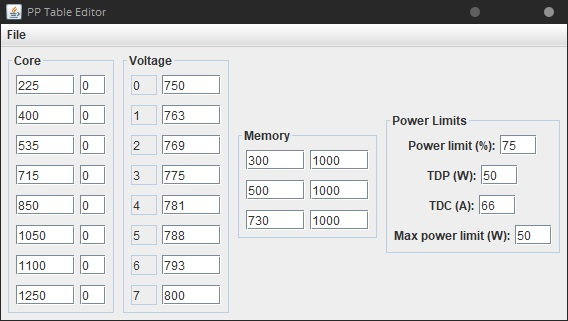
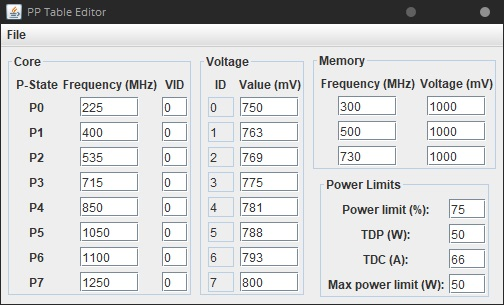
Added labels and aligned controls

Changed region(s): [[0.0, 0.0, 1.0, 0.9738], [0.7143, 0.8262, 0.8036, 0.8852]]

diff --git a/PPTableEditorGUI.java b/PPTableEditorGUI.java
@@ -3,6 +3,9 @@ import java.awt.Container;
 import java.awt.FlowLayout;
 import java.awt.GraphicsDevice;
 import java.awt.GraphicsEnvironment;
+import java.awt.GridBagConstraints;
+import java.awt.GridBagLayout;
+import java.awt.Insets;
 import java.awt.Rectangle;
 import java.awt.event.ActionEvent;
 import java.awt.event.ActionListener;
@@ -36,11 +39,11 @@ public class PPTableEditorGUI extends JFrame
     {
         super("PP Table Editor");
 
-        main_panel.setLayout(new FlowLayout());
+        main_panel.setLayout(new GridBagLayout());
 
         add_menu_bar();
 
-        setSize(300, 200);
+        setSize(500, 300);
         setResizable(false);
         setVisible(true);
         setDefaultCloseOperation(EXIT_ON_CLOSE);
@@ -103,10 +106,33 @@ public class PPTableEditorGUI extends JFrame
                                     if(panel_power != null)
                                         main_panel.remove(panel_power);
 
-                                    add_core_panel();
-                                    add_voltage_panel();
-                                    add_memory_panel();
-                                    add_power_panel();
+                                    GridBagConstraints gbc = new GridBagConstraints();
+                                    gbc.insets = new Insets(5, 5, 5, 0);
+
+                                    gbc.gridy = 0;
+                                    gbc.gridheight = 2;
+
+                                    // left, spans 2 rows
+                                    gbc.gridx = 0; 
+                                    add_core_panel(gbc);
+
+                                    // middle, spans 2 rows
+                                    gbc.gridx = 1;
+                                    add_voltage_panel(gbc);
+
+                                    gbc.gridx = 2; 
+                                    gbc.gridheight = 1;
+                                    gbc.insets.bottom = 0;
+                                    gbc.insets.right = 5;
+
+                                    // top right
+                                    gbc.gridy = 0;
+                                    add_memory_panel(gbc);
+
+                                    // bottom right
+                                    gbc.gridy = 1; 
+                                    gbc.insets.bottom = 5;
+                                    add_power_panel(gbc);
 
                                     revalidate();
                                     repaint();
@@ -146,22 +172,34 @@ public class PPTableEditorGUI extends JFrame
         setJMenuBar(menu_bar);
     }
 
-    private void add_core_panel()
+    private void add_core_panel(GridBagConstraints con)
     {
-        panel_core = new JPanel();
-        BoxLayout layout = new BoxLayout(panel_core, BoxLayout.Y_AXIS);
-        panel_core.setLayout(layout);
+        panel_core = new JPanel(new GridBagLayout());
 
-        for(PPTableEditor.ATOM_SCLK_ENTRY e : ppte.sclk_entries)
+        GridBagConstraints gbc = new GridBagConstraints();
+        gbc.gridx = 0; gbc.gridy = 0;
+        gbc.insets = new Insets(5, 5, 0, 0);
+        panel_core.add(new JLabel("P-State"), gbc);
+        gbc.gridx++;
+        panel_core.add(new JLabel("Frequency (MHz)"), gbc);
+        gbc.gridx++;
+        panel_core.add(new JLabel("VID"), gbc);
+
+        for(int i = 0; i < ppte.sclk_entries.length; i++)
         {
-            JPanel row = new JPanel();
+            PPTableEditor.ATOM_SCLK_ENTRY e = ppte.sclk_entries[i];
+            gbc.gridx = 0; gbc.gridy = i + 1;
+
+            panel_core.add(new JLabel("P" + i), gbc);
 
             JTextField txt_clock = new JTextField(5);
             txt_clock.setText(String.valueOf(e.ulSclk / 100));
-            row.add(txt_clock);
+            gbc.gridx++;
+            panel_core.add(txt_clock, gbc);
             JTextField txt_index = new JTextField(2);
             txt_index.setText(String.valueOf(e.ucVddInd));
-            row.add(txt_index);
+            gbc.gridx++;
+            panel_core.add(txt_index, gbc);
 
             DocumentListener listener = new DocumentListener()
             {
@@ -213,33 +251,36 @@ public class PPTableEditorGUI extends JFrame
 
             txt_clock.getDocument().addDocumentListener(listener);
             txt_index.getDocument().addDocumentListener(listener);
-
-            panel_core.add(row);
         }
 
         panel_core.setBorder(BorderFactory.createTitledBorder("Core"));
 
-        main_panel.add(panel_core);
+        main_panel.add(panel_core, con);
     }
 
-    private void add_voltage_panel()
+    private void add_voltage_panel(GridBagConstraints con)
     {
-        panel_voltage = new JPanel();
-        BoxLayout layout = new BoxLayout(panel_voltage, BoxLayout.Y_AXIS);
-        panel_voltage.setLayout(layout);
+        panel_voltage = new JPanel(new GridBagLayout());
+        GridBagConstraints gbc = new GridBagConstraints();
+        gbc.gridx = 0; gbc.gridy = 0;
+        gbc.insets = new Insets(5, 5, 0, 0);
+        panel_voltage.add(new JLabel("ID"), gbc);
+        gbc.gridx++;
+        panel_voltage.add(new JLabel("Value (mV)"), gbc);
 
         for(int i = 0; i < ppte.voltage_entries.length; i++)
         {
             PPTableEditor.ATOM_VOLTAGE_ENTRY entry = ppte.voltage_entries[i];
-            JPanel row = new JPanel();
+            gbc.gridx = 0; gbc.gridy = i + 1;
 
             JTextField txt_index = new JTextField(2);
             txt_index.setText(String.valueOf(i));
             txt_index.setEditable(false);
-            row.add(txt_index);
+            panel_voltage.add(txt_index, gbc);
             JTextField txt_voltage = new JTextField(5);
             txt_voltage.setText(String.valueOf(entry.usVdd));
-            row.add(txt_voltage);
+            gbc.gridx++; 
+            panel_voltage.add(txt_voltage, gbc);
 
             txt_voltage.getDocument().addDocumentListener(new DocumentListener()
             {
@@ -271,31 +312,35 @@ public class PPTableEditorGUI extends JFrame
                     }
                 }
             });
-
-            panel_voltage.add(row);
         }
 
         panel_voltage.setBorder(BorderFactory.createTitledBorder("Voltage"));
 
-        main_panel.add(panel_voltage);
+        main_panel.add(panel_voltage, con);
     }
 
-    private void add_memory_panel()
+    private void add_memory_panel(GridBagConstraints con)
     {
-        panel_memory = new JPanel();
-        BoxLayout layout = new BoxLayout(panel_memory, BoxLayout.Y_AXIS);
-        panel_memory.setLayout(layout);
+        panel_memory = new JPanel(new GridBagLayout());
+        GridBagConstraints gbc = new GridBagConstraints();
+        gbc.gridx = 0; gbc.gridy = 0;
+        gbc.insets = new Insets(5, 5, 0, 0);
+        panel_memory.add(new JLabel("Frequency (MHz)"), gbc);
+        gbc.gridx++;
+        panel_memory.add(new JLabel("Voltage (mV)"), gbc);
 
-        for(PPTableEditor.ATOM_MCLK_ENTRY e : ppte.mclk_entries)
+        for(int i = 0; i < ppte.mclk_entries.length; i++)
         {
-            JPanel row = new JPanel();
+            PPTableEditor.ATOM_MCLK_ENTRY e = ppte.mclk_entries[i];
+            gbc.gridx = 0; gbc.gridy = i + 1;
 
             JTextField txt_clock = new JTextField(5);
             txt_clock.setText(String.valueOf(e.ulMclk / 100));
-            row.add(txt_clock);
+            panel_memory.add(txt_clock, gbc);
             JTextField txt_voltage = new JTextField(5);
             txt_voltage.setText(String.valueOf(e.usMvdd));
-            row.add(txt_voltage);
+            gbc.gridx++;
+            panel_memory.add(txt_voltage, gbc);
 
             DocumentListener listener = new DocumentListener()
             {
@@ -347,27 +392,25 @@ public class PPTableEditorGUI extends JFrame
 
             txt_clock.getDocument().addDocumentListener(listener);
             txt_voltage.getDocument().addDocumentListener(listener);
-
-            panel_memory.add(row);
         }
 
         panel_memory.setBorder(BorderFactory.createTitledBorder("Memory"));
 
-        main_panel.add(panel_memory);
+        main_panel.add(panel_memory, con);
     }
 
-    private void add_power_panel()
+    private void add_power_panel(GridBagConstraints con)
     {
-        panel_power = new JPanel();
-        BoxLayout layout = new BoxLayout(panel_power, BoxLayout.Y_AXIS);
-        panel_power.setLayout(layout);
+        panel_power = new JPanel(new GridBagLayout());
+        GridBagConstraints gbc = new GridBagConstraints();
+        gbc.insets = new Insets(5, 5, 0, 0);
 
-        JPanel panel_pplay = new JPanel();
-        panel_pplay.add(new JLabel("Power limit (%):"));
+        gbc.gridx = 0; gbc.gridy = 0;
+        panel_power.add(new JLabel("Power limit (%):"), gbc);
         JTextField txt_power_limit = new JTextField(3);
         txt_power_limit.setText(String.valueOf(ppte.pplay.usPowerControlLimit));
-        panel_pplay.add(txt_power_limit);
-        panel_power.add(panel_pplay);
+        gbc.gridx = (gbc.gridx + 1) % 2;
+        panel_power.add(txt_power_limit, gbc);
 
         txt_power_limit.getDocument().addDocumentListener(new DocumentListener()
         {
@@ -400,26 +443,26 @@ public class PPTableEditorGUI extends JFrame
             }
         });
 
-        JPanel p = new JPanel();
-        p.add(new JLabel("TDP (W):"));
+        gbc.gridx = (gbc.gridx + 1) % 2; gbc.gridy++;
+        panel_power.add(new JLabel("TDP (W):"), gbc);
         JTextField txt_tdp = new JTextField(3);
         txt_tdp.setText(String.valueOf(ppte.ptune.usTDP));
-        p.add(txt_tdp);
-        panel_power.add(p);
+        gbc.gridx = (gbc.gridx + 1) % 2;
+        panel_power.add(txt_tdp, gbc);
 
-        p = new JPanel();
-        p.add(new JLabel("TDC (A):"));
+        gbc.gridx = (gbc.gridx + 1) % 2; gbc.gridy++;
+        panel_power.add(new JLabel("TDC (A):"), gbc);
         JTextField txt_tdc = new JTextField(3);
         txt_tdc.setText(String.valueOf(ppte.ptune.usTDC));
-        p.add(txt_tdc);
-        panel_power.add(p);
+        gbc.gridx = (gbc.gridx + 1) % 2;
+        panel_power.add(txt_tdc, gbc);
 
-        p = new JPanel();
-        p.add(new JLabel("Max power limit (W):"));
+        gbc.gridx = (gbc.gridx + 1) % 2; gbc.gridy++;
+        panel_power.add(new JLabel("Max power limit (W):"), gbc);
         JTextField txt_max_plimit = new JTextField(3);
         txt_max_plimit.setText(String.valueOf(ppte.ptune.usMaximumPowerDeliveryLimit));
-        p.add(txt_max_plimit);
-        panel_power.add(p);
+        gbc.gridx = (gbc.gridx + 1) % 2;
+        panel_power.add(txt_max_plimit, gbc);
 
         DocumentListener listener = new DocumentListener()
         {
@@ -488,7 +531,7 @@ public class PPTableEditorGUI extends JFrame
 
         panel_power.setBorder(BorderFactory.createTitledBorder("Power Limits"));
 
-        main_panel.add(panel_power);
+        main_panel.add(panel_power, con);
     }
 
     private void show_error_dialog(String msg)
